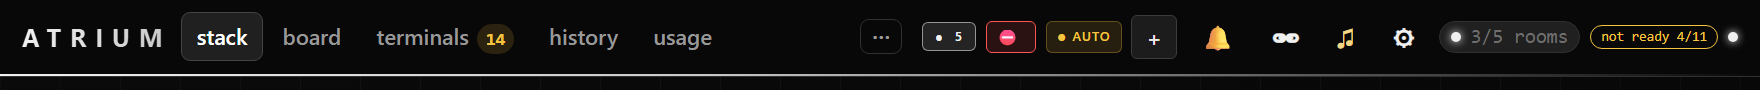
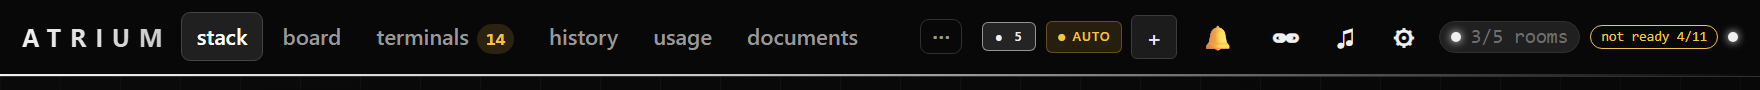
Hub file drop: ship notes and the doc's departures

diff --git a/docs/rnd/hub-file-drop.md b/docs/rnd/hub-file-drop.md
@@ -1,8 +1,24 @@
 # A hub file drop: a card on any room hands files to a card on any other
 
-Status: design, 2026-10-12. Nothing here is built. Written for f-hub-file-drop (high). It replaces the 2026-10-10 draft
-of this file, which left six questions open for clint and planned six phases. Every question is decided below, with
-its reason, and the build is four phases a worker can follow without a judgment call.
+Status: built, 2026-10-12, all four phases on claude/hub-file-drop-build. Written for f-hub-file-drop (high). It
+replaces the 2026-10-10 draft of this file, which left six questions open for clint and planned six phases. Every
+question is decided below, with its reason, and the build is four phases a worker can follow without a judgment call.
+
+Where the build departed from the text below:
+
+- The migration is `0017_hub_files`, the next free number after `0016`.
+- `PUT files/drop` on the room does not make `.atrium/incoming` when a `dest` is given, it uses a `dropRoot` helper
+  instead of `uploadTargetIn`.
+- `GET /v1/usage/export` is registered unconditionally in `api.go`, so there is no "same condition" as the drop route.
+- `store.SessionUsageSince` keeps the callback's error out of the store's guard, or a failing callback would halt the
+  store.
+- `TestFilesToolGetExpiredIs410` became `TestFilesToolGetOfAMissingOrGoneFileIs404Or410`: the link package cannot
+  move the hub store's clock, and expiry itself is covered by `TestFilesExpireAndSweep` in hubstore.
+- `atrium_export` with no `rooms` pulls from online rooms only. A named room that is offline or unknown is listed in
+  `skipped`.
+- An upload answers 201, like the document routes, and the settings `PUT` body is `{"caps": {...}}`.
+- The board's files mock rides the `boardDocs` flag of the headless test. The page is a Files tab on the desktop
+  board and a `files` button on the phone, both over one module, `m/js/files.js`.
 
 ## The problem
 

diff --git a/docs/changes/hub-file-drop.md b/docs/changes/hub-file-drop.md
@@ -1,0 +1,35 @@
+## Test plan
+
+## @LETTER@. The hub file drop
+
+### @LETTER@1. A file crosses from one room to another
+
+1. On a hub with two rooms, ask a card on the first room to `atrium_put` a small file from its worktree.
+2. On a card of the second room, run `atrium_files` and then `atrium_get` with the name it shows.
+
+**Expected:** the file lands in the second card's `.atrium/incoming` folder with the same bytes. Putting it again with
+the same name makes a new version and the older one is not listed.
+
+### @LETTER@2. A room's data is collected without ssh
+
+1. Run `atrium_export` with `what` usage and one room that is offline named in `rooms`.
+
+**Expected:** the online rooms each drop a file into the hub. The offline room is named in `skipped` and the call does
+not fail.
+
+### @LETTER@3. The Files tab
+
+1. Open the board served by the hub and click the `files` tab. On the phone open `/m/` and tap `files`.
+2. Upload a file with a note. Click its name. Delete it, first choosing `keep it`, then `delete` and `yes`.
+
+**Expected:** the row shows name, size, who sent it, when and how long is left, and a file with under a day left is
+marked. The name downloads the file as an attachment and never previews it. `keep it` deletes nothing. The usage bar
+moves after the upload and the delete. On a room's own board, with no hub, the tab and the button are not there.
+
+### @LETTER@4. Caps and expiry
+
+1. As the operator, `PUT /_hub/files/settings` with a small `file` cap, then upload a file over it.
+2. Leave a file past its lifetime.
+
+**Expected:** the upload is refused with 413 and the settings change is audited. Past its lifetime the file answers
+404 or 410 and the hourly sweep removes its bytes.

diff --git a/changelog/fabric/2026-10-12-hub-file-drop.md b/changelog/fabric/2026-10-12-hub-file-drop.md
@@ -1,0 +1,6 @@
+# A hub file drop
+
+A card on any room can now hand a file to a card on any other room through the hub, with `atrium_put`, `atrium_files`,
+`atrium_get` and `atrium_export`. Files keep 7 days by default, are capped at 32 MiB each and 512 MiB in all, and show
+on a new Files tab of the board and a files sheet on the phone, where they can be downloaded, uploaded and deleted
+(f-hub-file-drop).
